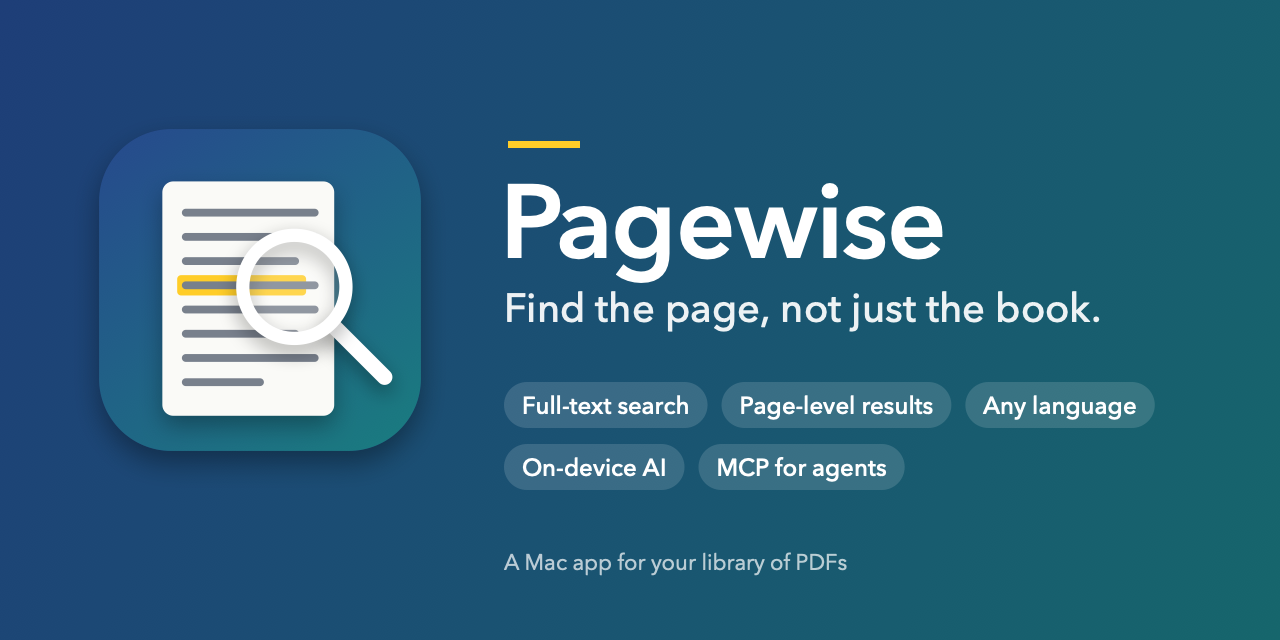
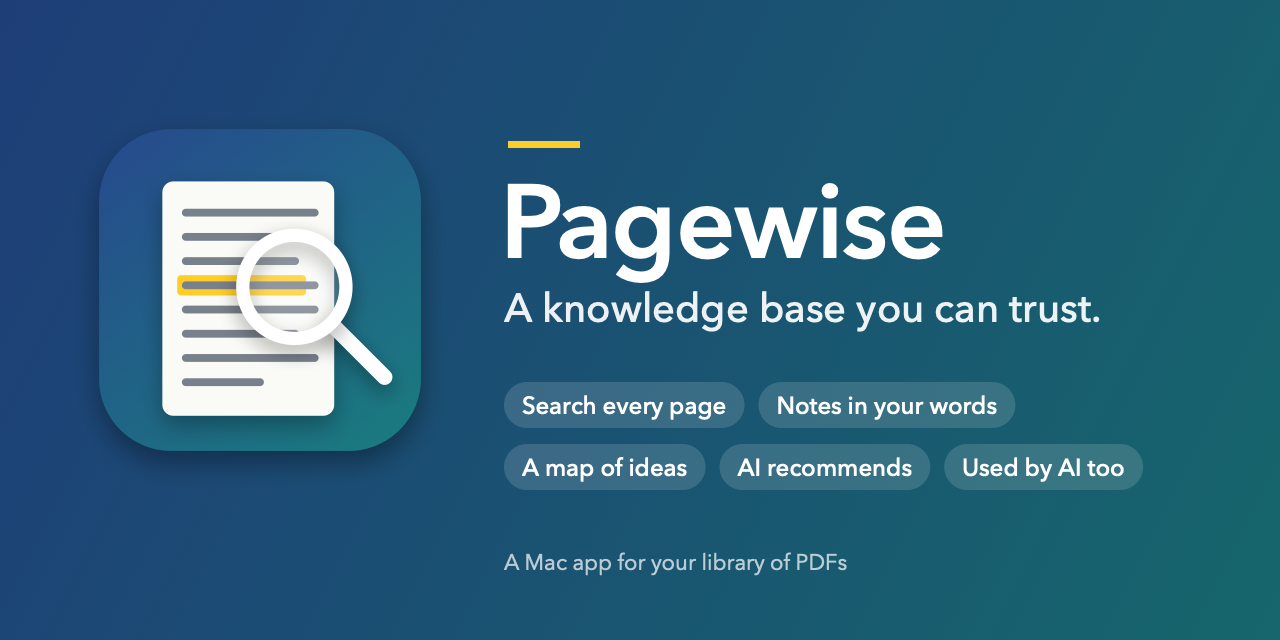
Tagline: A knowledge base you can trust (一个值得信赖的知识库); the social card with it
Claude-Session: https://claude.ai/code/session_01B2LBzdfjyb7HxsHFaCze8E

Changed region(s): [[0.4062, 0.5938, 0.9062, 0.7812], [0.375, 0.4375, 0.875, 0.5312]]

diff --git a/index.html b/index.html
@@ -3,11 +3,11 @@
 <head>
 <meta charset="utf-8">
 <meta name="viewport" content="width=device-width, initial-scale=1">
-<title>Pagewise: find the page, not just the book</title>
-<meta name="title-en" content="Pagewise: find the page, not just the book">
-<meta name="title-zh" content="Pagewise：不只找到书，更找到那一页">
+<title>Pagewise: a knowledge base you can trust</title>
+<meta name="title-en" content="Pagewise: a knowledge base you can trust">
+<meta name="title-zh" content="Pagewise：一个值得信赖的知识库">
 <meta name="description" content="A free Mac app (beta) for your library of PDFs and EPUBs: search inside every page, write notes on passages, explain ideas in your own words and see them connect on a map, every statement traced to its page. AI helps, but never writes your notes.">
-<meta property="og:title" content="Pagewise: find the page, not just the book">
+<meta property="og:title" content="Pagewise: a knowledge base you can trust">
 <meta property="og:description" content="A free Mac app (beta) for your library of PDFs: search inside every page, write notes, explain ideas in your own words and see them connect on a map. AI helps, but never writes your notes.">
 <meta property="og:image" content="https://xxln.github.io/pagewise-app/assets/social-card.png">
 <meta property="og:url" content="https://xxln.github.io/pagewise-app/">
@@ -47,8 +47,8 @@
     <span class="pill"><span class="en">Free beta for Mac</span><span class="zh">Mac 免费测试版</span></span>
     <a class="pill link" href="#knowledge"><span class="en">New in 0.4: concepts, a map and AI cards →</span><span class="zh">0.4 新功能：概念、知识地图和 AI 卡片 →</span></a>
     <h1>
-      <span class="en">Find the page, not just the book.</span>
-      <span class="zh">不只找到书，更找到那一页。</span>
+      <span class="en">A knowledge base you can trust.</span>
+      <span class="zh">一个值得信赖的知识库。</span>
     </h1>
     <p class="lead">
       <span class="en">Pagewise is a Mac app for your library of PDFs and EPUBs. It searches inside every page and opens the document at the right page, with your words highlighted. As you read, you write notes on passages, explain ideas in your own words and see how they connect on a map, every statement traced back to its page. AI helps: it files new books, points you to passages and lets assistants cite your pages. It never writes your notes.</span>
